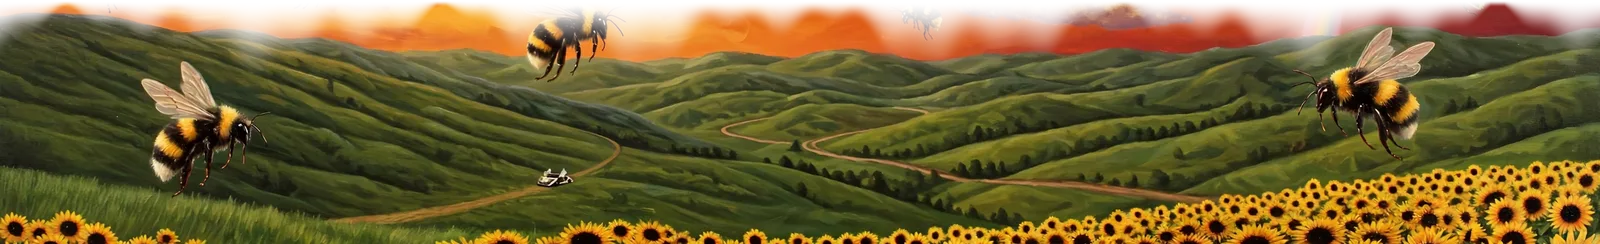
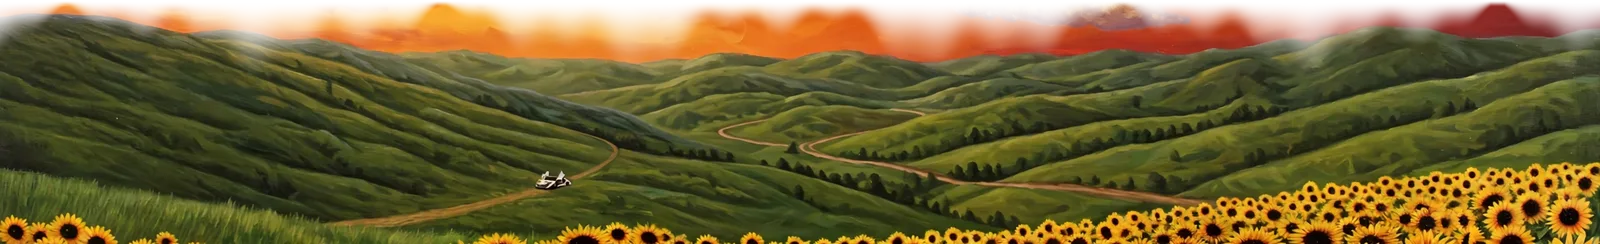
6loud DEV FORK 110: FLOWER FIELD — BEES AND RAINBOW REMOVED (Keith, 2026-11-15, on the FORK 108 proof stills: "Remove the beas and the rainbow"). The plates were re-baked bee/rainbow-free from the clean v2 master (tools/bake_flowerboy_v2.py; sky 29,572 B, hills 73,448 B, strip 119,112 B; QC renders/

diff --git a/6loud/dev/index.html b/6loud/dev/index.html
@@ -255,7 +255,7 @@
   <button id="charR" aria-label="Next character"></button>
   <div id="selectStack"><div id="charName">6LADE</div><div id="charBest"></div><div id="charLock" style="display:none;pointer-events:auto;cursor:pointer;"></div>   <!-- DEV FORK 74: the price line is a tap target — it opens the buy card --></div>
   <div id="strip"></div>
-  <div id="mapToast" style="display:none;"><img id="mapBadge" src="unlock-badge.webp" alt="NEW LEVEL UNLOCKED!"><div class="mt2" id="mapToastName">MIDNIGHT RUN</div></div>   <!-- DEV FORK 27: Keith's badge art carries the announcement; the gold line names the map --><div id="titleUI">   <!-- DEV FORK 26: the unlock toast lives at body level — a fixed element inside a transformed ancestor would anchor to the ancestor, not the sky --><button id="startBtn">START GAME</button><button id="mapBtn" style="display:none;">MAP: DAY BREAK</button>   <!-- DEV FORK 26: the start-area toggle --><button id="optBtn" class="audTg">OPTIONS</button><div id="ver">v0.99.8 · DEV FORK 109</div></div>
+  <div id="mapToast" style="display:none;"><img id="mapBadge" src="unlock-badge.webp" alt="NEW LEVEL UNLOCKED!"><div class="mt2" id="mapToastName">MIDNIGHT RUN</div></div>   <!-- DEV FORK 27: Keith's badge art carries the announcement; the gold line names the map --><div id="titleUI">   <!-- DEV FORK 26: the unlock toast lives at body level — a fixed element inside a transformed ancestor would anchor to the ancestor, not the sky --><button id="startBtn">START GAME</button><button id="mapBtn" style="display:none;">MAP: DAY BREAK</button>   <!-- DEV FORK 26: the start-area toggle --><button id="optBtn" class="audTg">OPTIONS</button><div id="ver">v0.99.8 · DEV FORK 110</div></div>
   <div id="dbg"></div>
   <div id="adSim"><div class="adSimIn"><button id="adSimClose" disabled>✕</button><div class="adSimTag">TEST AD · <span id="adSimKind">REWARDED</span></div><div class="adSimBody">Your ad would play here.</div><div id="adSimCount">5s</div><div class="adSimBar"><div id="adSimFill"></div></div><button id="adSimClaim" class="btn" style="display:none;">CLAIM REVIVE</button><div class="adSimHint" id="adSimHint"></div></div></div>
   <div id="loader"><div class="ldSea"></div><img id="ldEmblem" src="emblem.webp" alt="6LOUD"><div id="ldWord">LOADING...</div><div id="ldBarWrap"><div id="ldBar"><div id="ldFill"></div></div></div><div id="ldSub">GET READY TO JUMP!</div><div id="ldPct">LOADING 0%</div><div id="ldTip"></div></div>
@@ -274,7 +274,7 @@
     <div id="pubNote"></div>
   </div>
   <div id="boardPage"><div class="bpHead"><button id="bpBack">‹ BACK</button><div class="bpTitle">WORLD BOARD</div></div><div id="bpCount"></div><div id="bpList"></div></div>
-  <div id="optPage"><div class="bpHead"><button id="optBack">‹ BACK</button><div class="bpTitle">OPTIONS</div></div><div class="optBody"><div class="optRow"><div class="optLab"><div class="optName">NOTE BALANCE</div><div class="optSub">Notes are the currency — characters cost 3,000.</div></div><div id="optNotes" class="optName">0</div></div><div class="optRow"><div class="optLab"><div class="optName">GHOST RUNNERS</div><div class="optSub">Race the best runs. Turn off to run alone.</div></div><button id="optGhosts" class="audTg">GHOSTS ON</button></div><div class="optRow"><div class="optLab"><div class="optName">DEBUG</div><div class="optSub">Map review — START GAME opens the course with no runner: drag to scroll, BACK returns here.</div></div><button id="optDebug" class="audTg off">DEBUG OFF</button></div><div class="optRow"><div class="optLab"><div class="optName">TEST KIT — ENDLESS WINGS</div><div class="optSub">Dev testing only — every run starts with white wings on and they never run out. A magnet still strips them; landing on a cloud brings them back.</div></div><button id="optTkWings" class="audTg off">ENDLESS OFF</button></div><div class="optRow"><div class="optLab"><div class="optName">TEST KIT — FORCE SEESAW</div><div class="optSub">Dev testing only — generated clouds come up as see-saws in any world, from the first deck of the run. One force at a time.</div></div><button id="optTkSaw" class="audTg off">SEESAW OFF</button></div><div class="optRow"><div class="optLab"><div class="optName">TEST KIT — FORCE 360</div><div class="optSub">Dev testing only — generated clouds come up as 360 flipping clouds in any world, from the first deck of the run. One force at a time.</div></div><button id="optTkFlip" class="audTg off">360 OFF</button></div><div class="optRow"><div class="optLab"><div class="optName">TEST KIT — FORCE SHIVER</div><div class="optSub">Dev testing only — generated clouds come up as shiver clouds in any world, from the first deck of the run. One force at a time.</div></div><button id="optTkShiv" class="audTg off">SHIVER OFF</button></div><div class="optRow"><div class="optLab"><div class="optName">ZEUS WITH IVEY</div><div class="optSub">Dev option only — Zeus the dog runs the clouds with Ivey: his own movement model, galloping the decks and leaping the gaps deck-to-deck. No wings, no flips, no rolls. He only runs when Ivey is the selected runner.</div></div><button id="optZeus" class="audTg off">ZEUS OFF</button></div><div class="optRow"><div class="optLab"><div class="optName">FLOWER FIELD (DEMO)</div><div class="optSub">Dev demo only — a sunset backdrop recreated from the Flower Boy cover scene: painted sky with a rainbow, rolling green hills, a sunflower field below and giant bees drifting by. Pure scenery behind any world; decks and gameplay untouched. (Working label — the world gets its real name later.)</div></div><button id="optFlower" class="audTg off">FLOWER FIELD OFF</button></div><div class="optRow"><div class="optLab"><div class="optName">GOLDEN HOUR (DEMO)</div>   <!-- DEV FORK 89: Keith named the city-below backdrop GOLDEN HOUR --><div class="optSub">Demo backdrop — a hazy city far below at sunset, fog and bokeh baked into the art. Works in any world; that world's scenery stands down while it is on.</div></div><button id="optCity" class="audTg off">CITY DUSK OFF</button></div><div class="optRow"><div class="optLab"><div class="optName">BOKEH (DEMO)</div><div class="optSub">Demo backdrop — the far plane softens through a downscale pass and takes a fog wash that follows the sky.</div></div><button id="optBokeh" class="audTg off">BOKEH OFF</button></div><div class="optRow"><div class="optLab"><div class="optName">MUSIC</div><div class="optSub">The game's beats, on or off.</div></div><button id="optMusic" class="audTg">MUSIC ON</button></div><div class="optRow"><div class="optLab"><div class="optName">SOUND</div><div class="optSub">Steps, pickups and booms.</div></div><button id="optSfx" class="audTg">SOUND ON</button></div><div class="optRow"><div class="optLab"><div class="optName">RESTORE PURCHASES</div><div class="optSub">On a new device? Bring back what you bought.</div></div><button id="optRestore" class="optBtn">RESTORE</button></div><div class="optRow"><div class="optLab"><div class="optName">RESET LOCAL SCORES</div><div class="optSub">Clears this device's scores, bests and ghost recordings. The world board is not touched.</div></div><button id="optReset" class="optBtn">RESET</button></div><div id="optMsg"></div><div class="optFoot"><div class="optCredit">A NINJA MUSIC RECORDS GAME</div><div id="optVer"></div><a id="optPriv" href="https://keithcole813.github.io/6loud/">PRIVACY POLICY</a></div></div></div>
+  <div id="optPage"><div class="bpHead"><button id="optBack">‹ BACK</button><div class="bpTitle">OPTIONS</div></div><div class="optBody"><div class="optRow"><div class="optLab"><div class="optName">NOTE BALANCE</div><div class="optSub">Notes are the currency — characters cost 3,000.</div></div><div id="optNotes" class="optName">0</div></div><div class="optRow"><div class="optLab"><div class="optName">GHOST RUNNERS</div><div class="optSub">Race the best runs. Turn off to run alone.</div></div><button id="optGhosts" class="audTg">GHOSTS ON</button></div><div class="optRow"><div class="optLab"><div class="optName">DEBUG</div><div class="optSub">Map review — START GAME opens the course with no runner: drag to scroll, BACK returns here.</div></div><button id="optDebug" class="audTg off">DEBUG OFF</button></div><div class="optRow"><div class="optLab"><div class="optName">TEST KIT — ENDLESS WINGS</div><div class="optSub">Dev testing only — every run starts with white wings on and they never run out. A magnet still strips them; landing on a cloud brings them back.</div></div><button id="optTkWings" class="audTg off">ENDLESS OFF</button></div><div class="optRow"><div class="optLab"><div class="optName">TEST KIT — FORCE SEESAW</div><div class="optSub">Dev testing only — generated clouds come up as see-saws in any world, from the first deck of the run. One force at a time.</div></div><button id="optTkSaw" class="audTg off">SEESAW OFF</button></div><div class="optRow"><div class="optLab"><div class="optName">TEST KIT — FORCE 360</div><div class="optSub">Dev testing only — generated clouds come up as 360 flipping clouds in any world, from the first deck of the run. One force at a time.</div></div><button id="optTkFlip" class="audTg off">360 OFF</button></div><div class="optRow"><div class="optLab"><div class="optName">TEST KIT — FORCE SHIVER</div><div class="optSub">Dev testing only — generated clouds come up as shiver clouds in any world, from the first deck of the run. One force at a time.</div></div><button id="optTkShiv" class="audTg off">SHIVER OFF</button></div><div class="optRow"><div class="optLab"><div class="optName">ZEUS WITH IVEY</div><div class="optSub">Dev option only — Zeus the dog runs the clouds with Ivey: his own movement model, galloping the decks and leaping the gaps deck-to-deck. No wings, no flips, no rolls. He only runs when Ivey is the selected runner.</div></div><button id="optZeus" class="audTg off">ZEUS OFF</button></div><div class="optRow"><div class="optLab"><div class="optName">FLOWER FIELD (DEMO)</div><div class="optSub">Dev demo only — a sunset backdrop recreated from the Flower Boy cover scene: painted sky, rolling green hills and a sunflower field below. Pure scenery behind any world; decks and gameplay untouched. (Working label — the world gets its real name later.)</div></div><button id="optFlower" class="audTg off">FLOWER FIELD OFF</button></div><div class="optRow"><div class="optLab"><div class="optName">GOLDEN HOUR (DEMO)</div>   <!-- DEV FORK 89: Keith named the city-below backdrop GOLDEN HOUR --><div class="optSub">Demo backdrop — a hazy city far below at sunset, fog and bokeh baked into the art. Works in any world; that world's scenery stands down while it is on.</div></div><button id="optCity" class="audTg off">CITY DUSK OFF</button></div><div class="optRow"><div class="optLab"><div class="optName">BOKEH (DEMO)</div><div class="optSub">Demo backdrop — the far plane softens through a downscale pass and takes a fog wash that follows the sky.</div></div><button id="optBokeh" class="audTg off">BOKEH OFF</button></div><div class="optRow"><div class="optLab"><div class="optName">MUSIC</div><div class="optSub">The game's beats, on or off.</div></div><button id="optMusic" class="audTg">MUSIC ON</button></div><div class="optRow"><div class="optLab"><div class="optName">SOUND</div><div class="optSub">Steps, pickups and booms.</div></div><button id="optSfx" class="audTg">SOUND ON</button></div><div class="optRow"><div class="optLab"><div class="optName">RESTORE PURCHASES</div><div class="optSub">On a new device? Bring back what you bought.</div></div><button id="optRestore" class="optBtn">RESTORE</button></div><div class="optRow"><div class="optLab"><div class="optName">RESET LOCAL SCORES</div><div class="optSub">Clears this device's scores, bests and ghost recordings. The world board is not touched.</div></div><button id="optReset" class="optBtn">RESET</button></div><div id="optMsg"></div><div class="optFoot"><div class="optCredit">A NINJA MUSIC RECORDS GAME</div><div id="optVer"></div><a id="optPriv" href="https://keithcole813.github.io/6loud/">PRIVACY POLICY</a></div></div></div>
   <div id="unlockCard"><div class="ucBox"><div id="ucName">LASHMOOVE</div><div id="ucPrice">🔒 LOCKED — 3,000 ♪ OR $0.99</div><div id="ucBal"></div><button id="ucNotes" class="optBtn">UNLOCK — 3,000 ♪</button><button id="ucCash" class="optBtn">BUY $0.99 · SIM</button><button id="ucClose" class="audTg">NOT NOW</button><div id="ucMsg"></div></div></div>
 </div>
 <audio id="music" src="../play/assets/daylight.mp3" loop preload="auto"></audio>
@@ -987,7 +987,7 @@ window.__STORMBG.forEach(i => queueImg(im => { BGIMG['rs' + i] = im; }, 'stormbg
 window.__dressDay = function (idx) { return window.__bokPlane === 'mid' ? BGIMG['rd' + window.__BGRAIN_D[idx % window.__BGRAIN_D.length]] : BGIMG['rs' + window.__STORMBG[idx % window.__STORMBG.length]]; };   /* DEV FORK 89: the DAY dressing, picked by plane (Keith) — the FAR background keeps the storm first set (FORK 84); the MID layer wears the bgrain DAY pool instead: up close, the storm set's baked-rain clouds read as jellyfish */
 window.__CITYDUSK = {}; ['far', 'mid', 'near', 'fogband', 'far2', 'mid2', 'near2', 'far3', 'mid3', 'near3', 'far4', 'mid4', 'near4']   /* DEV FORK 99: sets 2-4 load beside the demo set */.forEach(k => queueImg(im => { window.__CITYDUSK[k] = im; }, 'citydusk/' + k + '.webp', false));   /* DEV FORK 87: the CITY DUSK demo plates — image-generated art, fog + bokeh baked in by code (Keith) */
 window.__SEASTRIP = null; queueImg(im => { window.__SEASTRIP = im; }, 'seastrip.webp', false);
-window.__FLOWER = { sky: null, hills: null, strip: null, bees: [] }; ['sky', 'hills', 'strip'].forEach(k => queueImg(im => { window.__FLOWER[k] = im; }, 'flowerboy/' + k + '.webp', false)); for (let i = 0; i < 6; i++) queueImg(im => { window.__FLOWER.bees[i] = im; }, 'flowerboy/bee' + (i + 1) + '.webp', false);   /* DEV FORK 108: the FLOWER FIELD plates + bees (tools/bake_flowerboy.py) — fork-local demo art, loaded lazy like the background packs, never core */   /* DEV FORK 95: THE SEA STRIP — one baked cloud-top field (tools/bake_seastrip.py, from Keith's realistic cloud photos), mirror-tiled by the sea draw in the standard worlds */
+window.__FLOWER = { sky: null, hills: null, strip: null }; ['sky', 'hills', 'strip'].forEach(k => queueImg(im => { window.__FLOWER[k] = im; }, 'flowerboy/' + k + '.webp', false));   /* DEV FORK 108: the FLOWER FIELD plates (tools/bake_flowerboy.py) — fork-local demo art, loaded lazy like the background packs, never core */   /* DEV FORK 110: no bees are loaded — Keith removed them (2026-11-15: "Remove the beas and the rainbow"); the plates were re-baked bee- and rainbow-free (tools/bake_flowerboy_v2.py) and the bee webps stay on disk unreferenced */   /* DEV FORK 95: THE SEA STRIP — one baked cloud-top field (tools/bake_seastrip.py, from Keith's realistic cloud photos), mirror-tiled by the sea draw in the standard worlds */
 window.__dressOne = function (d, star, dx, dy, ox, txm, tym) { if (window.__map !== 'rain' && window.__map !== 'rain2') return false; const a = ctx.globalAlpha; const idx = Math.abs(Math.round(d.x * 7 + d.y * 13)); if (star < 0.98) { const im = window.__bokPick ? window.__bokPick(window.__dressDay(idx)) : window.__dressDay(idx);   /* DEV FORK 87: BOKEH demo — the rain worlds' far dressing takes the pass too (far plane only; __bokPick checks the plane) */   /* DEV FORK 89: by day the FAR background is the storm first set (FORK 84) but the MID layer wears the bgrain day pool — jellyfish out of the near background (Keith) */ if (im && im.naturalWidth) { ctx.globalAlpha = a * (1 - star); ctx.drawImage(im, dx + ox - tiltX * txm, dy - tiltY * tym, d.w, d.w * im.naturalHeight / im.naturalWidth); } } if (star > 0.02) { const im = window.__bokPick ? window.__bokPick(BGIMG['rn' + window.__BGRAIN_N[idx % window.__BGRAIN_N.length]]) : BGIMG['rn' + window.__BGRAIN_N[idx % window.__BGRAIN_N.length]];   /* DEV FORK 87: BOKEH demo — same for the night set */ if (im && im.naturalWidth) { ctx.globalAlpha = a * star; ctx.drawImage(im, dx + ox - tiltX * txm, dy - tiltY * tym, d.w, d.w * im.naturalHeight / im.naturalWidth); } } ctx.globalAlpha = a; return true; };   /* DEV FORK 83: in the rain worlds a dress sprite wears Keith's rain clouds — day art by day, night art by night, crossfaded on the sky's star; returns true so the standard cloud never draws there */
 pumpQ();
 
@@ -3165,12 +3165,12 @@ function dbgTick(ts) {
   if (mode === 'over') {   /* DEV FORK: on the results screen the readout SHRINKS to a two-line strip docked at the very bottom — the full panel was sprawled over the leaderboard (Keith's screenshot, 2026-11-11) */
     const el = $('dbg');
     el.style.top = 'auto'; el.style.bottom = 'calc(4px + env(safe-area-inset-bottom))'; el.style.fontSize = '9.5px';
-    el.textContent = 'FORK109 · OVER · ' + dbgFps + 'fps · ' + innerWidth + 'x' + innerHeight + ' · ' + selChar + ' R' + (PSKIN.rate || 1) + ' · DIST ' + Math.round(runFt()) + ' FT · SCR ' + score + ' · JMP ' + jumps + '\n' + ghostTxt + (DBG_EV.length ? ' · ' + DBG_EV[DBG_EV.length - 1] : '');
+    el.textContent = 'FORK110 · OVER · ' + dbgFps + 'fps · ' + innerWidth + 'x' + innerHeight + ' · ' + selChar + ' R' + (PSKIN.rate || 1) + ' · DIST ' + Math.round(runFt()) + ' FT · SCR ' + score + ' · JMP ' + jumps + '\n' + ghostTxt + (DBG_EV.length ? ' · ' + DBG_EV[DBG_EV.length - 1] : '');
     return;
   }
   const el = $('dbg'); el.style.top = ''; el.style.bottom = ''; el.style.fontSize = '';
   const lines = [
-    'FORK109 · ' + String(mode).toUpperCase() + ' · ' + dbgFps + 'fps · ' + innerWidth + 'x' + innerHeight + ' dpr' + (devicePixelRatio || 1),
+    'FORK110 · ' + String(mode).toUpperCase() + ' · ' + dbgFps + 'fps · ' + innerWidth + 'x' + innerHeight + ' dpr' + (devicePixelRatio || 1),
     'CHR ' + selChar + ' R' + (PSKIN.rate || 1) + ' · SPD ' + Math.round(speed) + ' · ZOOM ' + zoom.toFixed(2),
     'DIST ' + Math.round(runFt()) + ' FT · SCR ' + score + ' · JMP ' + jumps,
     'vy ' + Math.round(vy) + (grounded ? ' · GROUND' : ' · AIR ' + (airMove || '-')) + ' · DBL ' + (doubleArmed ? 'ARM' : doubleUsed ? 'USED' : '-') + ' · TPL ' + (tripleUsed ? 'USED' : '-'),
@@ -3476,7 +3476,7 @@ window.__tkLine = function () { const parts = []; if (window.__tkWings) parts.pu
 window.__testKit = { get endlessWings() { return !!window.__tkWings; }, get forcedKind() { return window.__tkKind || null; }, setWings: b => { window.__tkWings = !!b; optSave(); }, setKind: k => { window.__tkKind = (k === 'saw' || k === 'flip' || k === 'shiv') ? k : ''; optSave(); }, toggleWings: optToggleTkWings, toggleKind: optToggleTkKind, wing: () => ({ t: Math.round(wingT * 10) / 10, kind: wingKind }), kindCount: () => { const c = { saw: 0, flip: 0, shiv: 0, total: plats.length }; for (const p of plats) if (p.kind && c[p.kind] !== undefined) c[p.kind]++; return c; } };   /* DEV FORK 101 TEST KIT: the test surface (forkcheck S89 + the proof renderers) */
 function optToggleZeus() { window.__zeusOpt = !window.__zeusOpt; optSave(); optUI(); optMsg(window.__zeusOpt ? 'ZEUS WITH IVEY on — pick Ivey and start a run: Zeus gallops the decks a body length behind her and leaps the gaps deck-to-deck. His own movement model: no wings, no flips, no rolls.' : 'ZEUS WITH IVEY off — Ivey runs alone again.'); if (typeof AD !== 'undefined' && AD.log) AD.log('OPTIONS zeus ' + (window.__zeusOpt ? 'ON' : 'OFF')); }
 window.__zeusTest = { get on() { return !!window.__zeusOpt; }, set: b => { window.__zeusOpt = !!b; optSave(); }, toggle: optToggleZeus, state: () => window.__zeusState(), player: () => ({ px: Math.round(px), py: Math.round(py), grounded: !!grounded, mode, dead }), setup: o => { plats = o.plats; px = o.px || 0; py = o.py || 0; vy = 0; grounded = o.ground || null; hangPlat = null; slipPlat = null; dist = o.dist || 0; runTime = o.runTime || 0; dead = false; worldEnd = 1e12; stormAt = 1e12; notes = []; coin = null; wing = null; bwing = null; magnet = null; gwing = null; noteNextT = runTime + 1e9; nextCoinFt = 1e9; nextWingFt = 1e9; nextBWingFt = 1e9; nextMagFt = 1e9; nextGWingFt = 1e9; wingT = 0; coinT = 0; magT = 0; noteCharge = false; champMode = false; held = false; pressT = 0; flipped = false; flipArmed = false; rollArmed = false; doubleArmed = false; mode = 'run'; if (window.__zeusReset) window.__zeusReset(); }, rescue: () => { const t = plats.find(p => !p.gone && p.x + p.len > px + 400) || plats[plats.length - 1]; if (t) { px = t.x + 120; py = t.y; vy = 0; grounded = t; hangPlat = null; slipPlat = null; dead = false; } } };   /* DEV FORK 107: the Zeus test surface (forkcheck S93 + the proof renderers) — setup/rescue mirror the zoom audit's hands: a synthetic course in, the real tick driven over it */
-function optToggleFlower() { window.__flowerOpt = !window.__flowerOpt; optSave(); optUI(); optMsg(window.__flowerOpt ? 'FLOWER FIELD demo on — a sunset field of sunflowers and giant bees behind the run, in any world. Decks, pickups and physics untouched.' : 'FLOWER FIELD demo off — the worlds wear their own scenery again.'); if (typeof AD !== 'undefined' && AD.log) AD.log('OPTIONS flower ' + (window.__flowerOpt ? 'ON' : 'OFF')); }
+function optToggleFlower() { window.__flowerOpt = !window.__flowerOpt; optSave(); optUI(); optMsg(window.__flowerOpt ? 'FLOWER FIELD demo on — a sunset field of sunflowers behind the run, in any world. Decks, pickups and physics untouched.' : 'FLOWER FIELD demo off — the worlds wear their own scenery again.'); if (typeof AD !== 'undefined' && AD.log) AD.log('OPTIONS flower ' + (window.__flowerOpt ? 'ON' : 'OFF')); }
 function optToggleDebug() { window.__debugOpt = !window.__debugOpt; optSave(); optUI(); optMsg(window.__debugOpt ? 'DEBUG on — START GAME opens the map review: no runner, no auto-scroll, drag to look around, BACK returns here.' : 'DEBUG off — START GAME runs as normal.'); if (typeof AD !== 'undefined' && AD.log) AD.log('OPTIONS debug ' + (window.__debugOpt ? 'ON' : 'OFF')); }
 function optToggleGhosts() { window.__optGhostsOff = !window.__optGhostsOff; optSave(); optUI(); optMsg(window.__optGhostsOff ? 'Ghost runners OFF — you run alone.' : 'Ghost runners ON.'); if (typeof AD !== 'undefined' && AD.log) AD.log('OPTIONS ghosts ' + (window.__optGhostsOff ? 'OFF' : 'ON')); }
 window.__restorePurchases = function () { let ent = {}; try { ent = JSON.parse(localStorage.getItem('sixlouddev_ent') || '{}'); } catch (e) {} const got = []; if (ent.noads) got.push('NO-ADS PACK'); if (ent.allaccess) got.push('ALL-ACCESS'); if (Array.isArray(ent.chars)) for (const c of ent.chars) got.push('CHARACTER: ' + String(c).toUpperCase()); optMsg(got.length ? 'Restored: ' + got.join(' · ') : 'No purchases found on this device yet.'); if (typeof AD !== 'undefined' && AD.log) AD.log('OPTIONS restore purchases: ' + (got.length ? got.join(', ') : 'none')); return got; };   /* the store bridge: at the 1.0 wrapper stage the store's receipts are written into sixlouddev_ent and this button applies them — on the web fork it honestly reports what the device holds */
@@ -3525,17 +3525,16 @@ window.__cityDraw = function (sky) { const C = window.__CITYDUSK || {}; const fa
 if (window.__flowerOpt === undefined) window.__flowerOpt = false;
 window.__flowerOn = function () { return !!window.__flowerOpt; };
 window.__flowerDrawn = 0;
-window.__flowerBees = [{ i: 2, f: 0.04, fy: 0.30, w: 165 }, { i: 4, f: 0.22, fy: 0.10, w: 105 }, { i: 1, f: 0.40, fy: 0.42, w: 88 }, { i: 5, f: 0.55, fy: 0.18, w: 120 }, { i: 0, f: 0.70, fy: 0.36, w: 76 }, { i: 3, f: 0.86, fy: 0.26, w: 84 }];   /* DEV FORK 108: the drifting bees — ambient dressing on the far plane's own wrap, bobbing gently; never obstacles (decks stay clouds, death stays fall-only) */
+/* DEV FORK 110: the bee drift table is DELETED (Keith, 2026-11-15 — the bees are removed from Flower Field; nothing drifts, nothing bee-shaped is drawn) */
 window.__flowerDraw = function (sky) { const F = window.__FLOWER || {}; const vw2 = viewW / zoom, vh2 = viewH / zoom; let drawn = 0; const tile = (img, topY, hgt, par, alpha) => { if (!img || !img.naturalWidth) return; const tw = hgt * img.naturalWidth / img.naturalHeight; const s = camX * par + tiltX * par * 90; let off = s % tw; if (off < 0) off += tw; const base = Math.floor(s / tw); ctx.save(); ctx.globalAlpha = alpha; let ti = 0; for (let x = -off - tw; x < vw2 + tw; x += tw, ti++) { const k = base + ti; if (k % 2 === 0) { ctx.drawImage(img, x, topY, tw, hgt); drawn++; } else { ctx.save(); ctx.translate(x + tw, topY); ctx.scale(-1, 1); ctx.drawImage(img, 0, 0, tw, hgt); ctx.restore(); drawn++; } } ctx.restore(); };   /* DEV FORK 108: a mirror-tiled plate, the city plates' own draw — alternate tiles mirror, so a plate's left edge never meets its own right edge and the tiling carries no seams */
   tile(F.sky, -90 - camSmY * 0.02, vh2 + 180, 0.05, 1);   /* DEV FORK 108: the SKY plate — full cover at the slowest drift; it paints over the gradient, the glow, the stars, the moon and every stood-down layer beneath it */
   tile(F.hills, vh2 * 0.47 - camSmY * 0.10, vh2 * 0.44, 0.08, 1);   /* DEV FORK 108: the HILLS plate at a ridge-class parallax (the mid ridge's own 0.08), sinking gently as he climbs */
-  if (F.bees) { for (const b of window.__flowerBees) { const img = F.bees[b.i]; if (!img || !img.naturalWidth) continue; const dx = (((b.f * 3450 - camX * 0.08) % 3450) + 3450) % 3450 - 1150; const dy = b.fy * vh2 - camBgY * 0.08 + Math.sin(time * 0.6 + b.f * 12.0) * 9; ctx.save(); ctx.globalAlpha = 0.96; ctx.drawImage(img, dx, dy, b.w, b.w * img.naturalHeight / img.naturalWidth); ctx.restore(); drawn++; } }   /* DEV FORK 108: the BEES drift on the far plane's wrap (0.08, the 3450 period) with a slow bob — dressing, in front of the hills, behind the decks */
   const seaVis = 1 - Math.max(0, Math.min(1, (altSm - 0.16) / 0.36)); if (seaVis > 0.01) tile(F.strip, vh2 * 0.74 - camSmY * 0.30 + (1 - seaVis) * vh2 * 0.18, vh2 * 0.30, 0.58, 0.98 * seaVis);   /* DEV FORK 108: the SUNFLOWER strip takes the sea strip's role whole — its 0.58 parallax and FORK 95's altitude gate: full when he runs low, sliding down and dissolving as he climbs */
   window.__flowerDrawn = drawn; };
 const __cityW108 = window.__cityW; window.__cityW = function () { if (window.__flowerOn()) return 1; return __cityW108(); };   /* DEV FORK 108: the flower takes the scenery weight — dressLow, the sea, dressFar, the ridges and dressMid all stand down behind the plates */
 const __cityDraw108 = window.__cityDraw; window.__cityDraw = function (sky) { if (window.__flowerOn()) { window.__flowerDraw(sky); return; } return __cityDraw108(sky); };   /* DEV FORK 108: the scenery slot lays the flower stack instead of the city */
 const __arcSky108 = window.__arcSky; window.__arcSky = function () { if (window.__flowerOn() && window.__dayAt) return window.__dayAt(0.65 + 0.15 * (window.__skyFrac ? window.__skyFrac() : 0)); if (!window.__flowerOn()) window.__flowerDrawn = 0; return __arcSky108(); };   /* DEV FORK 108: the sky pins to the journey arc's sunset stretch under the plate — FORK 87's city pin, the same numbers; the drawn counter is zeroed on every off frame (this wrapper runs at the head of every draw), so it always reads the most recent frame honestly */
-window.__flowerTest = { get on() { return !!window.__flowerOpt; }, set: b => { window.__flowerOpt = !!b; optSave(); }, toggle: optToggleFlower, drawn: () => window.__flowerDrawn || 0, plates: () => { const F = window.__FLOWER || {}; const ok = im => !!(im && im.naturalWidth); return { sky: ok(F.sky), hills: ok(F.hills), strip: ok(F.strip), bees: (F.bees || []).filter(ok).length }; } };   /* DEV FORK 108: the flower test surface (forkcheck S94 + the proof renderers) */
+window.__flowerTest = { get on() { return !!window.__flowerOpt; }, set: b => { window.__flowerOpt = !!b; optSave(); }, toggle: optToggleFlower, drawn: () => window.__flowerDrawn || 0, plates: () => { const F = window.__FLOWER || {}; const ok = im => !!(im && im.naturalWidth); return { sky: ok(F.sky), hills: ok(F.hills), strip: ok(F.strip), bees: 0 }   /* DEV FORK 110: bees is 0, literally — Keith removed the bees (2026-11-15), so there is no bee array left to count; the guard reads the removal positively */; } };   /* DEV FORK 108: the flower test surface (forkcheck S94 + the proof renderers) */
 if (new URLSearchParams(location.search).has('options')) setTimeout(openOptions, 2000);
 /* DEV FORK 53: THE NOTE WALLET (Keith, 2026-11-13 — notes are the currency; characters cost 3,000 notes or $0.99). The running tally lives in sixlouddev_notes on the device. */
 window.__notes = 0;

diff --git a/6loud/dev/flowerboy/README.md b/6loud/dev/flowerboy/README.md
@@ -1,17 +1,20 @@
-# FLOWER FIELD demo plates (DEV FORK 108)
+# FLOWER FIELD demo plates (DEV FORK 108; bees + rainbow removed in DEV FORK 110)
 
 Demo backdrop recreating the Flower Boy cover scene, at Keith's order
 (2026-11-15) — a working label only; Keith names worlds himself.
 
 - Master (demo provenance, like the Golden Hour masters):
-  `renders/flowerboy-src/media-generation-flowerboy-master-v1-*.webp`
-- Bake: `tools/bake_flowerboy.py` — sky / hills / sunflower strip
-  plates split by the painting's natural bands; bees cut from the sky
-  band by border flood-fill keying (QC: `renders/flowerboy-src/`).
-- sky.webp — sky + clouds + rainbow, opaque, full-cover backdrop.
+  `renders/flowerboy-src/media-generation-flowerboy-master-v2-nobees-*.webp`
+  — the clean re-generation with no bees and no rainbow (Keith,
+  2026-11-15: "Remove the beas and the rainbow").
+- Bake: `tools/bake_flowerboy_v2.py` — sky / hills / sunflower strip
+  plates split by the painting's natural bands (QC:
+  `renders/flowerboy-src/flowerboy-plates-qc-v2.jpg`).
+- sky.webp — sky + clouds, opaque, full-cover backdrop. No rainbow.
 - hills.webp — green hills + road + car, top edge noise-melted.
 - strip.webp — sunflower band, mirror-tiled foreground strip (the sea
   strip's role).
-- bee1–bee6.webp — individual bee sprites for the drifting dressing
-  layer. Ambient only, never obstacles: decks stay clouds, death
-  stays fall-only.
+- bee1–bee6.webp — the FORK 108 bee sprites. As of FORK 110 they are
+  UNREFERENCED: the code neither loads nor draws them. The files stay
+  on disk and on the site by decision; nothing in the game points at
+  them.
